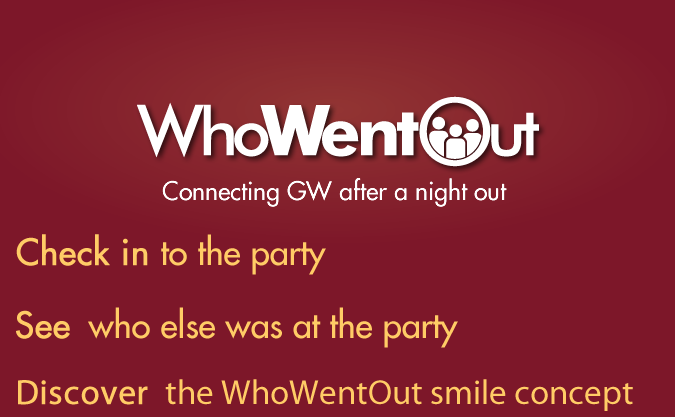
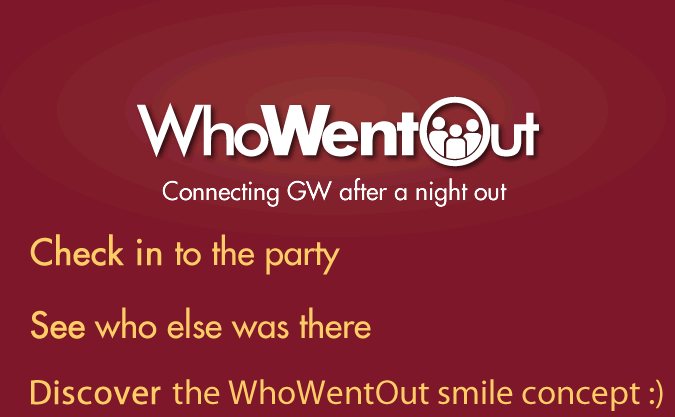
changed homepage message

Changed region(s): [[0.0, 0.9041, 0.9956, 0.9976], [0.0, 0.717, 0.6844, 0.8417], [0.0, 0.5612, 0.4978, 0.6547]]

diff --git a/whowentout/modules/whowentout.website/views/homepage.view.php b/whowentout/modules/whowentout.website/views/homepage.view.php
@@ -22,7 +22,7 @@
 <body id="<?= body_id() ?>">
 
 <div id="homepage_message">
-    <img src="/assets/images/homepage.png?version=5" />
+    <img src="/assets/images/homepage.png?version=7" />
     <a id="enter_button" href="/login">Enter</a>
 </div>
 
